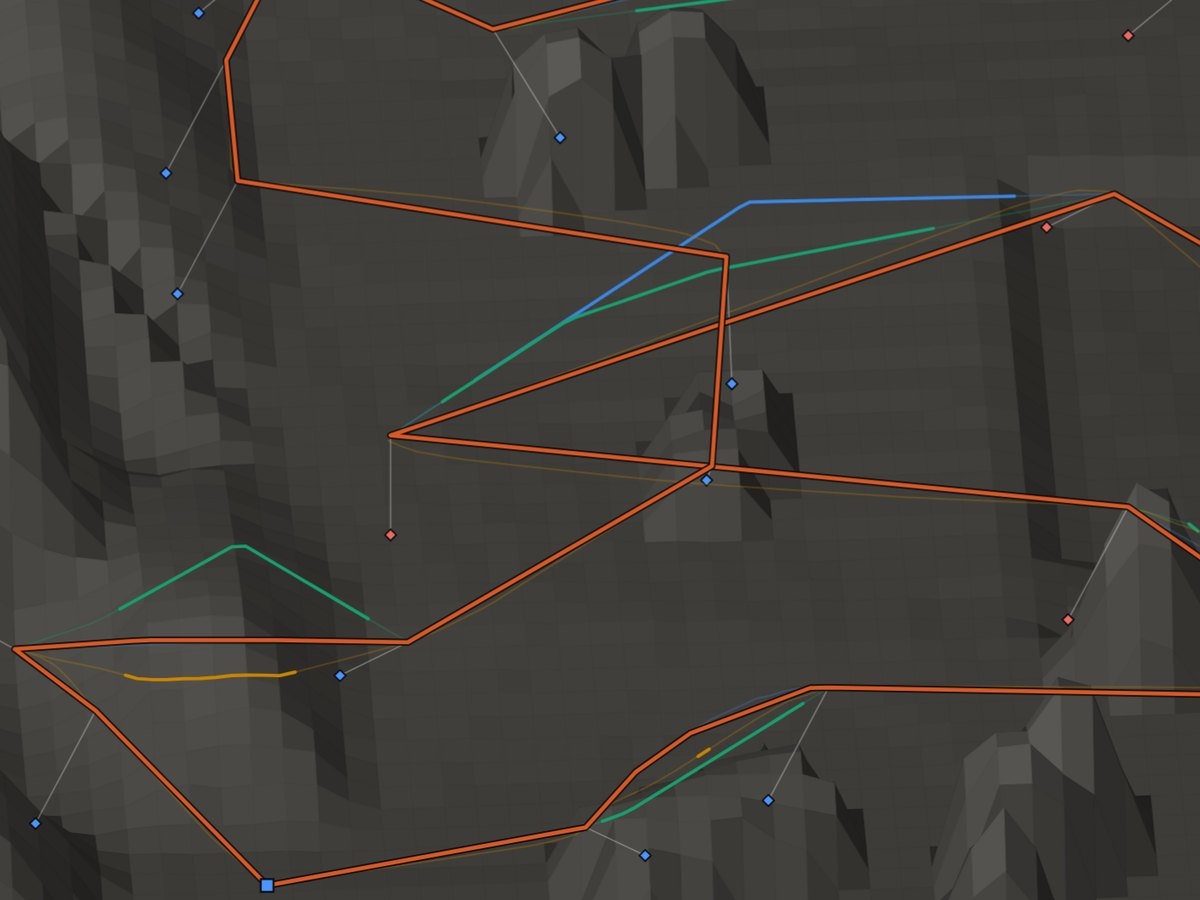
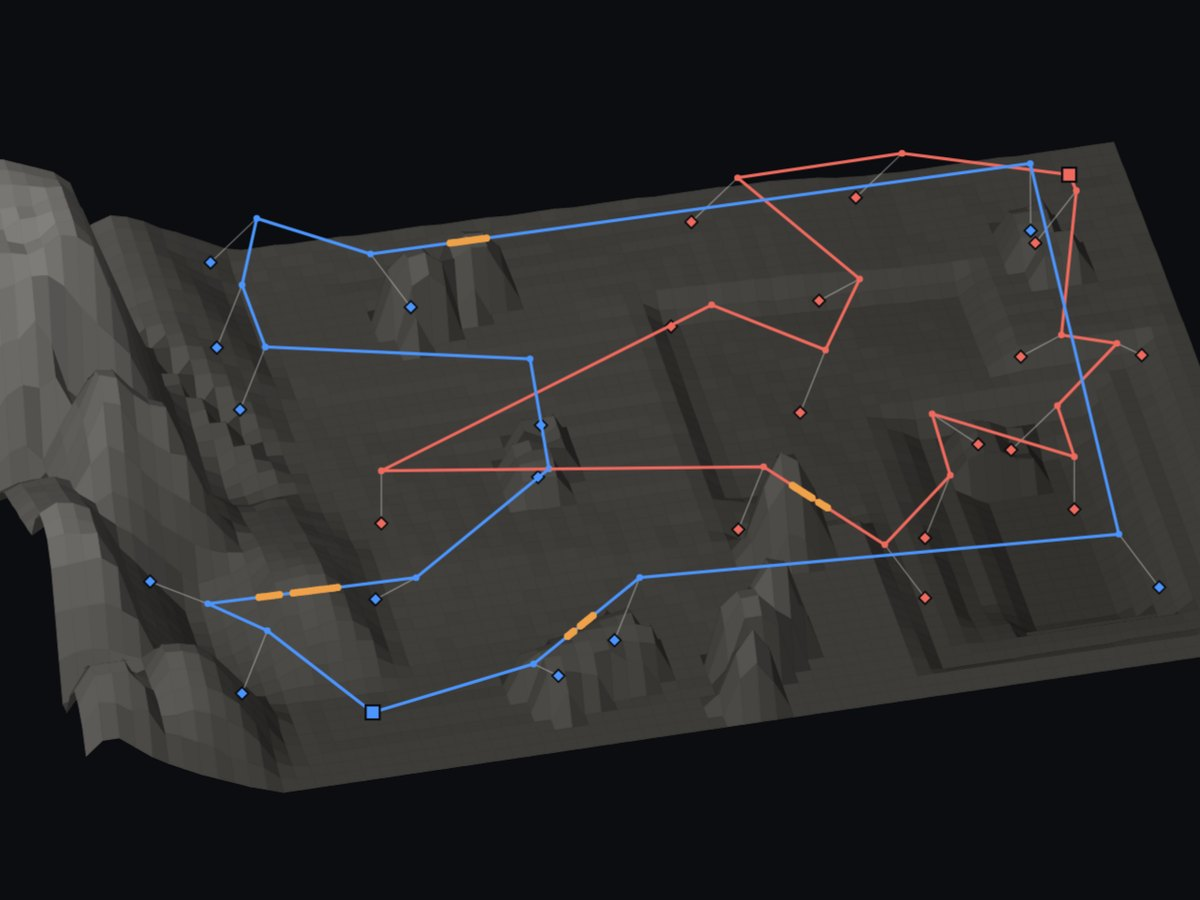
Restore planner thumbnail, full-width last gallery row, new Munich photo

diff --git a/_pages/travel.md b/_pages/travel.md
@@ -91,11 +91,6 @@ photos:
     gap: 1.25rem 0.75rem;
     margin-top: 1.5rem;
   }
-  /* keeps the last row at its natural height instead of stretching it to the full width */
-  .travel-grid::after {
-    content: "";
-    flex: 10000 1 0;
-  }
   /* growing each photo in proportion to its aspect ratio gives every photo in a row the same height */
   .travel-photo {
     --ar: 1.5;
@@ -177,19 +172,46 @@ I grew up in Vietnam, studied and worked in Germany, and I love travelling. Wher
 <script>
   (function () {
     // set each photo's aspect ratio from the image itself, so the rows line up whatever the shape
+    var grid = document.getElementById("travel-grid"),
+      queued = false;
+    // the last row fills the width like the others, unless that would make it much taller than a normal row
+    // (e.g. a single photo left over): then it keeps the normal row height
+    function lastRow() {
+      queued = false;
+      var figs = Array.prototype.filter.call(grid.querySelectorAll(".travel-photo"), function (f) {
+        f.style.flexGrow = "";
+        return !f.classList.contains("later");
+      });
+      if (!figs.length) return;
+      var top = figs[figs.length - 1].offsetTop,
+        row = figs.filter(function (f) { return f.offsetTop === top; }),
+        rowH = parseFloat(getComputedStyle(grid).getPropertyValue("--row-h")) || 200,
+        h = row[0].querySelector("img").getBoundingClientRect().height;
+      if (h > 1.6 * rowH) row.forEach(function (f) { f.style.flexGrow = "0"; });
+    }
+    function relayout() {
+      if (!queued) {
+        queued = true;
+        requestAnimationFrame(lastRow);
+      }
+    }
     document.querySelectorAll(".travel-photo img").forEach(function (img) {
       function fit() {
         if (img.naturalWidth) img.closest(".travel-photo").style.setProperty("--ar", (img.naturalWidth / img.naturalHeight).toFixed(4));
+        relayout();
       }
       if (img.complete) fit();
       else img.addEventListener("load", fit);
     });
+    window.addEventListener("resize", relayout);
+    relayout();
     var more = document.getElementById("travel-more");
     if (!more) return;
     more.addEventListener("click", function () {
       var next = document.querySelectorAll(".travel-photo.later");
       for (var k = 0; k < Math.min({{ per_page }}, next.length); k++) next[k].classList.remove("later");
       if (next.length <= {{ per_page }}) more.remove();
+      relayout();
     });
   })();
 </script>
